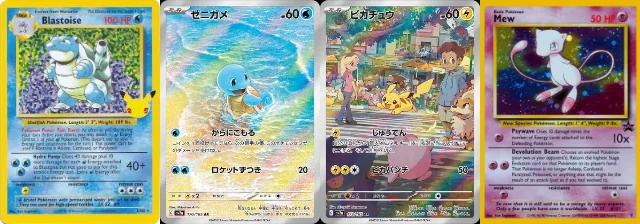
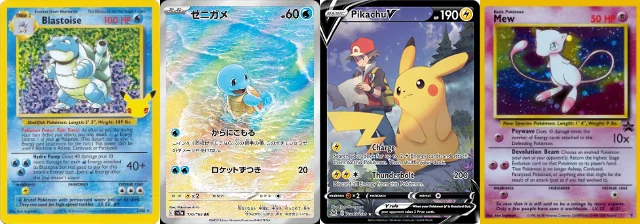
Replace the featured Pikachu with Pikachu V TG16/TG30

Changed region(s): [[0.5, 0.0, 0.75, 1.0]]

diff --git a/src/lib/data/collection.ts b/src/lib/data/collection.ts
@@ -1,5 +1,5 @@
 // Facts supplied in the V3 brief, plus the favourite cards Aditya chose to show
-// (images supplied by him, 2026-10-01). The full inventory lives on Collectr;
+// (images supplied by him). The full inventory lives on Collectr;
 // this site shows the favourites and links there for the rest.
 export const collection = {
 	favourite: 'Blastoise',
@@ -47,14 +47,13 @@ export const favouriteCards: Card[] = [
 		alt: 'Japanese Squirtle card: Squirtle floats in a swirl of shallow, rainbow-tinted water.'
 	},
 	{
-		id: 'pikachu-151',
-		name: 'Pikachu',
-		printedName: 'ピカチュウ',
-		language: 'Japanese',
-		set: 'Pokémon Card 151',
-		number: '173/165 AR',
-		illustrator: 'Hiroyuki Yamamoto',
-		alt: 'Japanese Pikachu card: Pikachu runs across a busy town square full of people and Pokémon.'
+		id: 'pikachu-v-tg16',
+		name: 'Pikachu V',
+		language: 'English',
+		set: 'Lost Origin Trainer Gallery',
+		number: 'TG16/TG30',
+		illustrator: 'Ryota Murayama',
+		alt: 'Pikachu V card: Pikachu stands in a forest beside a Trainer in a red cap reading a map.'
 	},
 	{
 		id: 'mew-promo',

diff --git a/WORKLOG.md b/WORKLOG.md
@@ -13,6 +13,11 @@
 - Appwrite Analytics replaces Google Analytics and runs only on the two production hostnames, respecting Do Not Track.
 - Node 24 is the development and CI default. The minimum supported version is 22.18.
 
+## 19 November 2026 – Pikachu V
+
+- Replaced the featured Pikachu with Pikachu V TG16/TG30 from Lost Origin Trainer Gallery using Aditya's supplied artwork. Regenerated the card image, shelf texture, and room still.
+- Verified the card and its metadata on `/collection` with JavaScript disabled and in the room's shelf panel. The room loaded the updated shelf texture. All 33 unit tests and six focused browser tests passed.
+
 ## 18 November 2026 – Portfolio discovery
 
 - Review follow-up: preserve the saved view when opening legacy station links, use native modal semantics after hydration, and check HTTP responses before running accessibility audits.
